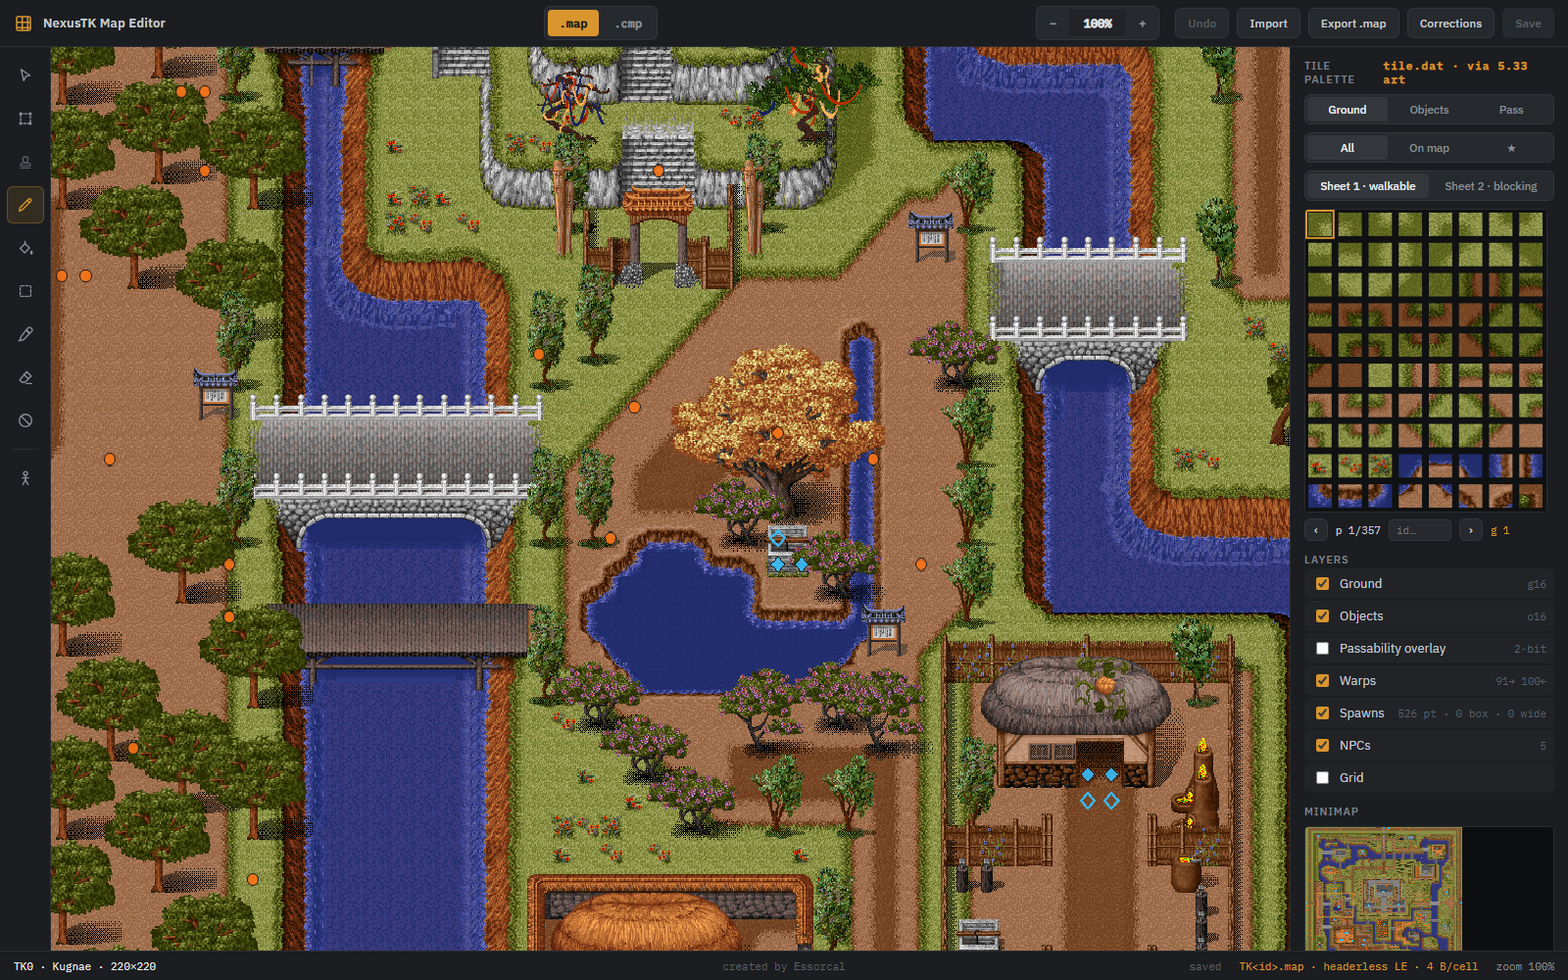
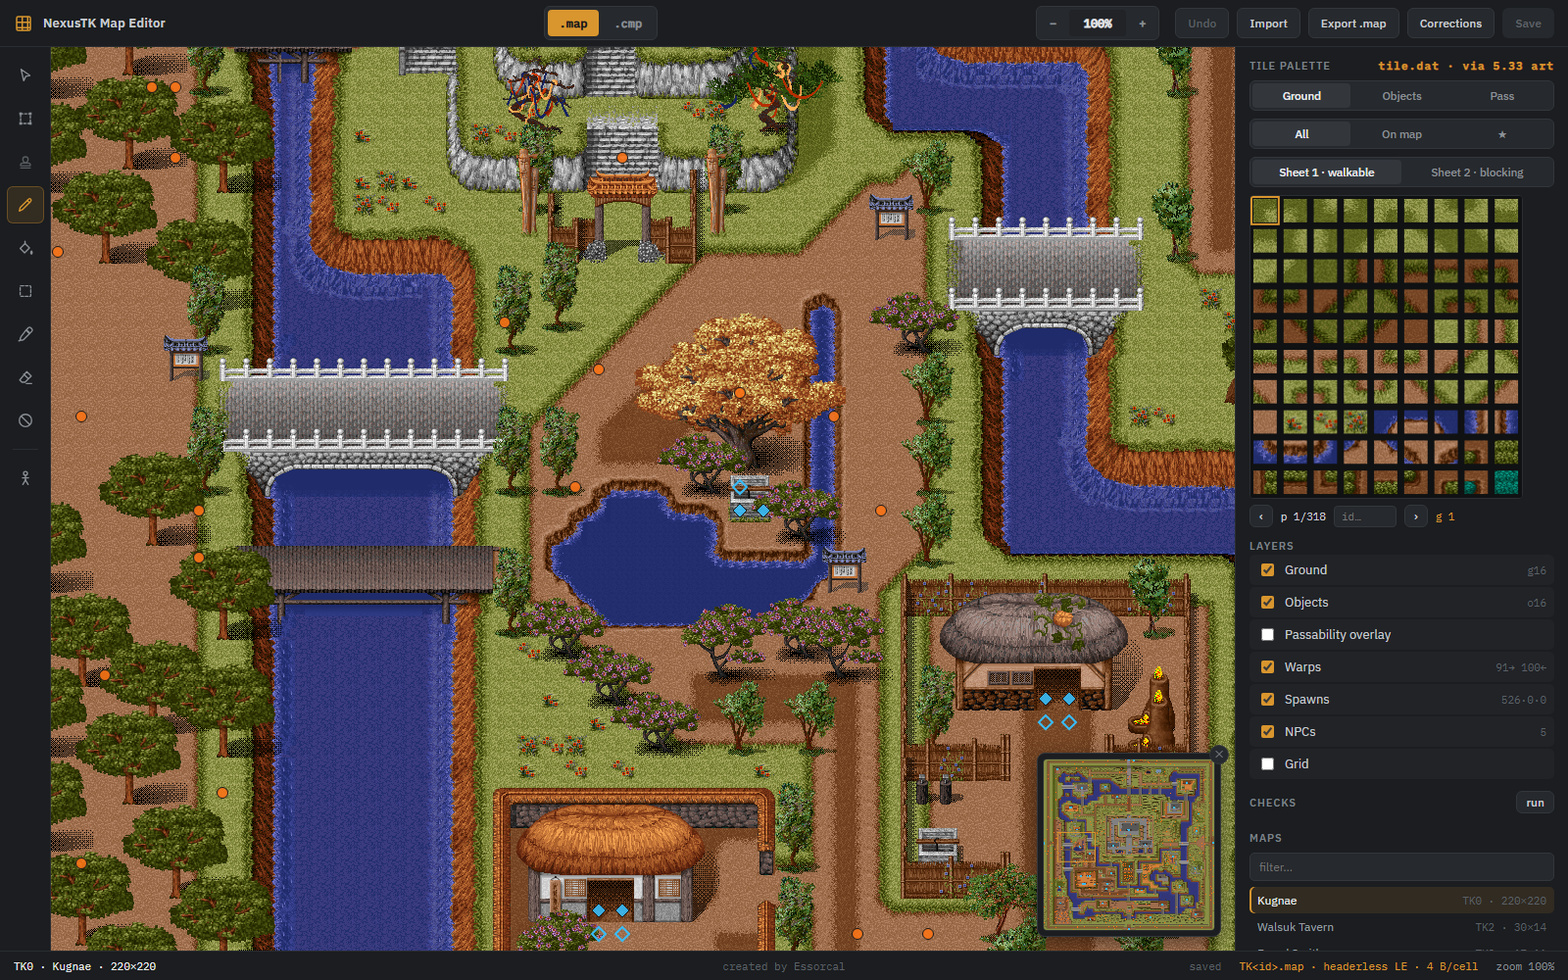
feat(mapeditor): draft saves — never touch the shipped maps; floating minimap
Save now writes game-data/maps-edited/TK<id>.map (gitignored) and the shipped
game-data/maps stays pristine — this is a development tool, so publishing a map
is a deliberate manual copy (or MapCells.csv corrections rows). Loading prefers
the draft, the status bar and map list mark drafted maps, and a Discard-draft
button reloads the shipped file. The .orig backup mechanism is gone; corrections
always diff against the shipped map.

The minimap moves out of the panel to a floating bottom-right overlay with a
persistent hide toggle, and the panel's minimum width rises to 340px so the
layer notes and checks stay readable.

diff --git a/MapEditor/wwwroot/app.js b/MapEditor/wwwroot/app.js
@@ -10,7 +10,7 @@
 const CELL = 24, S2BASE = 0xC000, PAL_ROWS = 10;
 let PAL_COLS = 8, PAL_PAGE = PAL_COLS * PAL_ROWS;
 function setPanelWidth(w) {
-  w = Math.max(240, Math.min(620, w));
+  w = Math.max(340, Math.min(620, w));
   document.documentElement.style.setProperty('--panelw', w + 'px');
   try { localStorage.setItem('mapeditor.panelw', String(w)); } catch {}
   const cols = Math.max(6, Math.min(18, Math.floor((w - 36) / 31)));
@@ -24,7 +24,8 @@ const S = {
   groundImg: new Image(), tilecImg: new Image(),
   mode: '4x',
   mapId: null, mapName: '', xs: 0, ys: 0, cells: null, // Uint16Array, interleaved [g,o] (x64 = LE)
-  modified: false, savedMark: 0,
+  modified: false, savedMark: 0, isDraft: false,       // isDraft: cells came from game-data/maps-edited
+
   tool: 'brush', tab: 'ground', sheet: 1,
   selWord: 1, selObj: 1, selPass: 3,
   palPage: 0, palMode: 'all', palBlock: null, palAnchorIdx: null,
@@ -103,8 +104,10 @@ async function loadMap(id) {
   if (S.modified && !confirm('Discard unsaved changes?')) return;
   const m = S.meta.maps.find(x => x.id === id);
   if (!m) return;
-  const buf = await (await fetch(`/api/map/${id}`, { cache: 'no-store' })).arrayBuffer();
+  const resp = await fetch(`/api/map/${id}`, { cache: 'no-store' });
+  const buf = await resp.arrayBuffer();
   S.mapId = id; S.mapName = m.name; S.xs = m.xs; S.ys = m.ys;
+  S.isDraft = resp.headers.get('X-Draft') === '1';
   S.cells = new Uint16Array(buf);
   S.cam = { x: 0, y: 0 };
   clampCam();                    // centers maps smaller than the viewport
@@ -119,12 +122,31 @@ async function loadMap(id) {
   invalidate(); updateStatus(); updateButtons();
 }
 
+// Save writes a DRAFT (game-data/maps-edited/) — the shipped map is never touched.
+// Publishing a map into game-data/maps is a deliberate manual copy outside the editor.
 async function saveMap() {
   if (S.mapId === null || !S.modified) return;
   const r = await fetch(`/api/map/${S.mapId}`, { method: 'PUT', body: S.cells.buffer });
-  if (r.ok) { S.modified = false; S.savedMark = S.undoStack.length; flashHint('saved'); }
+  if (r.ok) {
+    S.modified = false; S.savedMark = S.undoStack.length; S.isDraft = true;
+    const m = S.meta.maps.find(x => x.id === S.mapId);
+    if (m && !m.draft) { m.draft = true; buildMapList(); }
+    flashHint('draft saved — the shipped map is untouched');
+  }
   else flashHint('save failed: ' + await r.text());
   updateStatus(); updateButtons();
+}
+
+async function discardDraft() {
+  if (S.mapId === null || !S.isDraft) return;
+  if (!confirm(`Delete the draft of TK${S.mapId} and reload the shipped map?`)) return;
+  const r = await fetch(`/api/map/${S.mapId}/draft`, { method: 'DELETE' });
+  if (!r.ok && r.status !== 404) { flashHint('discard failed: ' + await r.text()); return; }
+  const m = S.meta.maps.find(x => x.id === S.mapId);
+  if (m) m.draft = false;
+  S.modified = false;                 // skip the unsaved-changes prompt — discarding is the point
+  await loadMap(S.mapId);
+  flashHint('draft discarded — shipped map loaded');
 }
 
 async function importFile(file) {
@@ -517,12 +539,11 @@ function rebuildMini() {
 }
 function drawMini() {
   const cvs = $('miniCanvas');
-  if (!cvs || !mini.world || !S.cells) return;
+  if (!cvs || !mini.world || !S.cells || $('miniWrap').hidden) return;
   const dpr = devicePixelRatio || 1;
   // Size the canvas ELEMENT to exactly the drawn map — no letterbox, so a click maps to
   // a cell by plain proportion of the element's rect.
-  const availW = (cvs.parentElement && cvs.parentElement.clientWidth) || 96;
-  const k = Math.min(availW / S.xs, 160 / S.ys);             // css px per cell, height-capped
+  const k = Math.min(208 / S.xs, 176 / S.ys);                // css px per cell, corner-box cap
   const cw = Math.max(24, Math.round(S.xs * k)), ch = Math.max(24, Math.round(S.ys * k));
   if (cvs.style.width !== cw + 'px') cvs.style.width = cw + 'px';
   if (cvs.style.height !== ch + 'px') cvs.style.height = ch + 'px';
@@ -564,6 +585,17 @@ function bindMini() {
   cvs.addEventListener('pointerdown', e => { down = true; jump(e); try { cvs.setPointerCapture(e.pointerId); } catch {} });
   cvs.addEventListener('pointermove', e => { if (down) jump(e); });
   cvs.addEventListener('pointerup', () => { down = false; });
+  const setMiniVisible = v => {
+    $('miniWrap').hidden = !v;
+    $('miniShow').hidden = v;
+    try { localStorage.setItem('mapeditor.mini', v ? '1' : '0'); } catch {}
+    if (v) invalidate();
+  };
+  $('miniHide').onclick = () => setMiniVisible(false);
+  $('miniShow').onclick = () => setMiniVisible(true);
+  let vis = true;
+  try { vis = localStorage.getItem('mapeditor.mini') !== '0'; } catch {}
+  setMiniVisible(vis);
 }
 
 // --------------------------------------------------------------------------- checks
@@ -1145,7 +1177,7 @@ function buildMapList() {
     if (filter && !(`${m.id} ${m.name}`.toLowerCase().includes(filter))) continue;
     const row = document.createElement('div');
     row.className = 'mrow' + (m.id === S.mapId ? ' on' : '');
-    row.innerHTML = `<span class="name">${m.name || '(unnamed)'}</span><span class="mono dim">TK${m.id} · ${m.xs}×${m.ys}</span>`;
+    row.innerHTML = `<span class="name">${m.name || '(unnamed)'}</span>${m.draft ? '<span class="draftdot" title="has a draft save in game-data/maps-edited">●</span>' : ''}<span class="mono dim">TK${m.id} · ${m.xs}×${m.ys}</span>`;
     row.onclick = () => loadMap(m.id);
     list.appendChild(row);
   }
@@ -1153,6 +1185,7 @@ function buildMapList() {
 
 function updateButtons() {
   $('btnSave').disabled = !S.modified;
+  $('btnDraft').hidden = !S.isDraft;
   $('btnUndo').disabled = S.undoStack.length === 0;
   $('btnUndo').textContent = S.undoStack.length ? `Undo · ${S.undoStack.length}` : 'Undo';
   $('tool-stamp')?.classList.toggle('dimmed', !S.clipboard);
@@ -1167,7 +1200,8 @@ function flashHint(msg) {
 }
 
 function updateStatus(pin) {
-  $('stMap').textContent = S.mapId !== null ? `TK${S.mapId} · ${S.mapName} · ${S.xs}×${S.ys}` : 'no map';
+  $('stMap').textContent = S.mapId !== null
+    ? `TK${S.mapId} · ${S.mapName} · ${S.xs}×${S.ys}${S.isDraft ? ' · draft' : ''}` : 'no map';
   const c = pin || S.hover;
   if (S.cells && c.x >= 0 && c.x < S.xs && c.y >= 0 && c.y < S.ys) {
     const i = idx(c.x, c.y), g = gAt(i), o = oAt(i);
@@ -1230,6 +1264,7 @@ function bindUI() {
   $('tabPass').onclick = () => setTab('pass');
   $('btnUndo').onclick = undo;
   $('btnSave').onclick = saveMap;
+  $('btnDraft').onclick = discardDraft;
   $('btnExport').onclick = () => {
     if (S.mapId === null) return;
     if (S.modified) { flashHint('save first — export reads the file on disk'); return; }

diff --git a/MapEditor/wwwroot/index.html b/MapEditor/wwwroot/index.html
@@ -29,8 +29,9 @@
       <button id="btnUndo" class="btn" title="Ctrl+Z">Undo</button>
       <button id="btnImport" class="btn">Import</button>
       <button id="btnExport" class="btn">Export .cmp</button>
-      <button id="btnCsv" class="btn" title="Download MapCells.csv override rows for every cell that differs from the shipped map (the .orig backup if a save made one, else the file on disk)">Corrections</button>
-      <button id="btnSave" class="btn primary" disabled>Save</button>
+      <button id="btnCsv" class="btn" title="Download MapCells.csv override rows for every cell that differs from the shipped map in game-data/maps">Corrections</button>
+      <button id="btnDraft" class="btn" hidden title="Delete this map's draft save (game-data/maps-edited) and reload the shipped map">Discard draft</button>
+      <button id="btnSave" class="btn primary" disabled title="Save a draft to game-data/maps-edited — never overwrites the shipped map">Save</button>
       <input type="file" id="fileImport" accept=".map,.cmp" hidden>
     </div>
   </header>
@@ -46,6 +47,13 @@
         </div>
         <div class="dhint">arrow keys work too</div>
       </div>
+      <div id="miniWrap" title="minimap — click or drag to move the view">
+        <button id="miniHide" title="hide the minimap">✕</button>
+        <canvas id="miniCanvas"></canvas>
+      </div>
+      <button id="miniShow" title="show the minimap" hidden>
+        <svg width="16" height="16" viewBox="0 0 20 20" fill="none" stroke="currentColor" stroke-width="1.5" stroke-linejoin="round"><path d="M3 5l4.5-2 5 2L17 3v12l-4.5 2-5-2L3 17z"/><path d="M7.5 3v12M12.5 5v12"/></svg>
+      </button>
       <div id="loading">decoding tileset…</div>
     </main>
     <aside id="panel">
@@ -77,22 +85,14 @@
         </div>
       </section>
       <section>
-        <div class="cols">
-          <div class="colmain">
-            <div class="ptitle">LAYERS</div>
-            <label class="lrow"><input type="checkbox" id="lyGround" checked> Ground <span class="mono dim">g16</span></label>
-            <label class="lrow"><input type="checkbox" id="lyObj" checked> Objects <span class="mono dim">o16</span></label>
-            <label class="lrow" title="tint every blocking cell red"><input type="checkbox" id="lyPass"> Passability</label>
-            <label class="lrow" title="Warps.csv + world-map trigger/arrival cells — filled diamond warps out, hollow diamond is a landing tile, violet opens the world map"><input type="checkbox" id="lyWarp" checked> Warps <span id="warpNote" class="mono dim"></span></label>
-            <label class="lrow" title="Spawns.csv points (dots) and AreaSpawns.csv boxes (dashed) — map-wide rows are listed in this row's tooltip after a map loads"><input type="checkbox" id="lySpawn" checked> Spawns <span id="spawnNote" class="mono dim"></span></label>
-            <label class="lrow" title="NPCs.csv placements"><input type="checkbox" id="lyNpc" checked> NPCs <span id="npcNote" class="mono dim"></span></label>
-            <label class="lrow"><input type="checkbox" id="lyGrid"> Grid</label>
-          </div>
-          <div class="colside">
-            <div class="ptitle">MINIMAP</div>
-            <canvas id="miniCanvas" title="click or drag to move the view"></canvas>
-          </div>
-        </div>
+        <div class="ptitle">LAYERS</div>
+        <label class="lrow"><input type="checkbox" id="lyGround" checked> Ground <span class="mono dim">g16</span></label>
+        <label class="lrow"><input type="checkbox" id="lyObj" checked> Objects <span class="mono dim">o16</span></label>
+        <label class="lrow" title="tint every blocking cell red"><input type="checkbox" id="lyPass"> Passability overlay</label>
+        <label class="lrow" title="Warps.csv + world-map trigger/arrival cells — filled diamond warps out, hollow diamond is a landing tile, violet opens the world map"><input type="checkbox" id="lyWarp" checked> Warps <span id="warpNote" class="mono dim"></span></label>
+        <label class="lrow" title="Spawns.csv points (dots) and AreaSpawns.csv boxes (dashed) — map-wide rows are listed in this row's tooltip after a map loads"><input type="checkbox" id="lySpawn" checked> Spawns <span id="spawnNote" class="mono dim"></span></label>
+        <label class="lrow" title="NPCs.csv placements"><input type="checkbox" id="lyNpc" checked> NPCs <span id="npcNote" class="mono dim"></span></label>
+        <label class="lrow"><input type="checkbox" id="lyGrid"> Grid</label>
       </section>
       <section>
         <div class="ptitle">CHECKS <span id="lintNote" class="mono dim"></span><button id="btnLint" class="btn tiny" title="scan for suspicious cells: warp arrivals and spawn points on blocked ground, walkable edges into void (blocked warp SOURCES are the normal doorway idiom and aren't flagged)">run</button></div>

diff --git a/MapEditor/wwwroot/app.css b/MapEditor/wwwroot/app.css
@@ -22,6 +22,7 @@ button { font: inherit; color: inherit; background: none; border: none; cursor: 
 .actions { display: flex; gap: 8px; }
 
 .btn { display: flex; align-items: center; gap: 6px; padding: 7px 12px; border-radius: 6px; background: var(--panel3); border: 1px solid var(--border2); color: var(--text); font-size: 12px; font-weight: 500; }
+.btn[hidden] { display: none; }   /* the display:flex above would otherwise defeat the hidden attribute */
 .btn:hover { background: var(--border2); }
 .btn:disabled { color: var(--dim); cursor: default; }
 .btn.primary { background: var(--accent); border-color: transparent; color: #17181a; font-weight: 600; }
@@ -72,10 +73,15 @@ button { font: inherit; color: inherit; background: none; border: none; cursor: 
 .lrow .mono { margin-left: auto; flex: 0 1 auto; overflow: hidden; text-overflow: ellipsis; white-space: nowrap; }
 .lrow input { accent-color: var(--accent); }
 
-.cols { display: flex; gap: 10px; align-items: flex-start; }
-.colmain { flex: 1; min-width: 0; }
-.colside { flex: 0 0 96px; min-width: 0; }
-#miniCanvas { display: block; margin-top: 8px; border: 1px solid var(--border); border-radius: 4px; background: #0e0f10; cursor: crosshair; image-rendering: pixelated; }
+#miniWrap { position: absolute; right: 14px; bottom: 14px; padding: 5px; background: var(--panel); border: 1px solid var(--border2); border-radius: 8px; box-shadow: 0 6px 20px rgba(0,0,0,.45); }
+#miniWrap[hidden] { display: none; }
+#miniHide { position: absolute; top: -9px; right: -9px; width: 20px; height: 20px; border-radius: 50%; background: var(--panel3); border: 1px solid var(--border2); color: var(--muted); font-size: 10px; line-height: 1; display: flex; align-items: center; justify-content: center; }
+#miniHide:hover { color: var(--bright); background: var(--border2); }
+#miniShow { position: absolute; right: 14px; bottom: 14px; padding: 8px 10px; border-radius: 6px; background: var(--panel3); border: 1px solid var(--border2); color: var(--muted); box-shadow: 0 4px 12px rgba(0,0,0,.4); display: flex; align-items: center; }
+#miniShow:hover { color: var(--text); }
+#miniShow[hidden] { display: none; }
+#miniCanvas { display: block; border: 1px solid var(--border); border-radius: 4px; background: #0e0f10; cursor: crosshair; image-rendering: pixelated; }
+.draftdot { color: var(--accent); font-size: 9px; flex: 0 0 auto; }
 #lintList { margin-top: 6px; max-height: 140px; overflow-y: auto; }
 .lintrow { display: flex; gap: 8px; padding: 4px 8px; border-radius: 4px; font-family: "IBM Plex Mono", monospace; font-size: 11px; color: #9ba0a6; cursor: pointer; }
 .lintrow:hover { background: var(--panel2); }

diff --git a/MapEditor/Program.cs b/MapEditor/Program.cs
@@ -1,5 +1,6 @@
 // Map editor for the Project1998 world data: a local web tool that renders game-data/maps/
-// with the real 5.33 tile art and edits the 4.x .map files the server actually serves.
+// with the real 5.33 tile art. Edits are saved as DRAFTS (game-data/maps-edited/) — the
+// shipped maps the server serves are only ever changed by a deliberate manual copy.
 //
 // One deliberate asymmetry, straight from re/render_maps.py: BOTH "modes" draw with the 5.33
 // tileset. The 4.x/5.33 mode in the UI selects the FILE FORMAT in and out (.map vs .cmp), not
@@ -36,6 +37,15 @@ Console.WriteLine($"  {assets.GroundCount} ground frames, {assets.TilecCount} ob
 string mapsDir = Path.Combine(repo, "game-data", "maps");
 var index = LoadIndex(Path.Combine(repo, "game-data", "map_index.csv"));
 
+// This is a development tool: Save NEVER touches the shipped maps the server/client read.
+// Drafts live in game-data/maps-edited/ (gitignored); loading prefers the draft so work
+// continues across sessions, and publishing a map into game-data/maps is a deliberate
+// manual copy outside the editor.
+string draftsDir = Path.Combine(repo, "game-data", "maps-edited");
+string ShippedPath(int id) => Path.Combine(mapsDir, $"TK{id}.map");
+string DraftPath(int id) => Path.Combine(draftsDir, $"TK{id}.map");
+string LivePath(int id) => File.Exists(DraftPath(id)) ? DraftPath(id) : ShippedPath(id);
+
 // --port <n> picks the preferred port (a second copy — e.g. one per checkout — stays
 // addressable instead of silently sliding to the next free port).
 int preferred = 5959;
@@ -65,22 +75,25 @@ app.MapGet("/api/meta", () => Results.Json(new
         name = kv.Value.Name,
         xs = kv.Value.Xs,
         ys = kv.Value.Ys,
-        file = File.Exists(Path.Combine(mapsDir, $"TK{kv.Key}.map"))
+        file = File.Exists(ShippedPath(kv.Key)),
+        draft = File.Exists(DraftPath(kv.Key))
     }).OrderBy(m => m.id)
 }));
 
 app.MapGet("/api/tiles/ground.png", () => Results.Bytes(assets.GroundPng, "image/png"));
 app.MapGet("/api/tiles/tilec.png", () => Results.Bytes(assets.TilecPng, "image/png"));
 
-app.MapGet("/api/map/{id:int}", (int id) =>
+// Load prefers the draft so a mapping session survives a restart; X-Draft says which
+// file the bytes came from.
+app.MapGet("/api/map/{id:int}", (int id, HttpResponse resp) =>
 {
-    string path = Path.Combine(mapsDir, $"TK{id}.map");
-    return File.Exists(path) ? Results.Bytes(File.ReadAllBytes(path), "application/octet-stream")
-                             : Results.NotFound();
+    string path = LivePath(id);
+    if (!File.Exists(path)) return Results.NotFound();
+    resp.Headers["X-Draft"] = path == DraftPath(id) ? "1" : "0";
+    return Results.Bytes(File.ReadAllBytes(path), "application/octet-stream");
 });
 
-// Save: overwrite TK<id>.map, keeping a one-time .orig of the shipped file. The server never
-// writes these files (its edits are overlays), so the editor is the only writer here.
+// Save writes the DRAFT only — game-data/maps/ stays exactly as shipped.
 app.MapPut("/api/map/{id:int}", async (int id, HttpRequest req) =>
 {
     if (!index.TryGetValue(id, out var dims)) return Results.BadRequest("unknown map id");
@@ -90,11 +103,16 @@ app.MapPut("/api/map/{id:int}", async (int id, HttpRequest req) =>
     int expect = dims.Xs * dims.Ys * 4;
     if (data.Length != expect)
         return Results.BadRequest($"size {data.Length} != {dims.Xs}x{dims.Ys}x4 = {expect}");
-    string path = Path.Combine(mapsDir, $"TK{id}.map");
-    string orig = path + ".orig";
-    if (File.Exists(path) && !File.Exists(orig)) File.Copy(path, orig);
-    File.WriteAllBytes(path, data);
-    return Results.Ok(new { saved = data.Length, backup = File.Exists(orig) });
+    Directory.CreateDirectory(draftsDir);
+    File.WriteAllBytes(DraftPath(id), data);
+    return Results.Ok(new { saved = data.Length, draft = $"game-data/maps-edited/TK{id}.map" });
+});
+
+app.MapDelete("/api/map/{id:int}/draft", (int id) =>
+{
+    if (!File.Exists(DraftPath(id))) return Results.NotFound();
+    File.Delete(DraftPath(id));
+    return Results.Ok();
 });
 
 // Read-only overlay data: warps / world-map cells / spawns / NPCs pointing at this map,
@@ -105,15 +123,14 @@ app.MapGet("/api/map/{id:int}/markers", (int id) =>
 
 // Sparse-patch export: POST the editor's live cell buffer, get back MapCells.csv rows
 // (Server/Content.cs LoadMapCells: blank column = inherit from the .map) for exactly the
-// cells that differ from the SHIPPED baseline — the .orig backup once a save has created
-// one, else the file on disk. Small fixes become reviewable CSV rows in git instead of a
-// rewritten binary map.
+// cells that differ from the SHIPPED map — saves are drafts that never touch it, so
+// game-data/maps IS the baseline. Small fixes become reviewable CSV rows in git instead
+// of a rewritten binary map.
 app.MapPost("/api/map/{id:int}/mapcells.csv", async (int id, HttpRequest req, HttpResponse resp) =>
 {
     if (!index.TryGetValue(id, out var dims)) return Results.BadRequest("unknown map id");
-    string path = Path.Combine(mapsDir, $"TK{id}.map");
-    string baseline = File.Exists(path + ".orig") ? path + ".orig" : path;
-    if (!File.Exists(baseline)) return Results.BadRequest("no baseline file on disk");
+    string baseline = ShippedPath(id);
+    if (!File.Exists(baseline)) return Results.BadRequest("no shipped map on disk");
     var old = File.ReadAllBytes(baseline);
     using var ms = new MemoryStream();
     await req.Body.CopyToAsync(ms);
@@ -137,14 +154,14 @@ app.MapPost("/api/map/{id:int}/mapcells.csv", async (int id, HttpRequest req, Ht
         n++;
     }
     resp.Headers["X-Cell-Count"] = n.ToString();
-    resp.Headers["X-Baseline"] = baseline.EndsWith(".orig") ? "orig" : "disk";
     return Results.Text(sb.ToString(), "text/csv");
 });
 
+// Exports read what the editor shows: the draft when one exists, else the shipped map.
 app.MapGet("/api/map/{id:int}/export.cmp", (int id) =>
 {
     if (!index.TryGetValue(id, out var dims)) return Results.NotFound();
-    string path = Path.Combine(mapsDir, $"TK{id}.map");
+    string path = LivePath(id);
     if (!File.Exists(path)) return Results.NotFound();
     var cmp = MapToCmp(File.ReadAllBytes(path), dims.Xs, dims.Ys);
     return Results.File(cmp, "application/octet-stream", $"TK{id:D6}.cmp");
@@ -152,7 +169,7 @@ app.MapGet("/api/map/{id:int}/export.cmp", (int id) =>
 
 app.MapGet("/api/map/{id:int}/export.map", (int id) =>
 {
-    string path = Path.Combine(mapsDir, $"TK{id}.map");
+    string path = LivePath(id);
     return File.Exists(path)
         ? Results.File(File.ReadAllBytes(path), "application/octet-stream", $"TK{id}.map")
         : Results.NotFound();

diff --git a/MapEditor/README.md b/MapEditor/README.md
@@ -88,9 +88,10 @@ at 100% and above every step is pixel-crisp.
 Pan with **space + drag**, middle-mouse drag, the mouse wheel (`Shift` for horizontal),
 or the arrow keys.
 
-The **minimap** (right panel) shows the whole map with the current view marked — click
-or drag on it to jump. It also carries the marker layers' dots, so a city's warps and
-spawns are visible at a glance.
+The **minimap** floats in the bottom-right corner of the canvas: the whole map with the
+current view marked — click or drag on it to jump. It carries the marker layers' dots,
+so a city's warps and spawns are visible at a glance. The ✕ on its corner hides it (a
+small map button in the same spot brings it back), and the choice persists.
 
 ## Editing
 
@@ -107,8 +108,23 @@ spawns are visible at a glance.
 | No-entry | toggle a cell's passability (this flips its ground sheet — see above) |
 
 **Ctrl+Z** undoes stroke by stroke. The **Passability overlay** (Layers panel) tints
-every blocking cell red. **Save** (or Ctrl+S) writes the `.map` file — the first save of
-each map keeps a one-time `.orig` backup beside it.
+every blocking cell red.
+
+## Saving — drafts, never the live maps
+
+This is a development tool, so **Save (Ctrl+S) writes a draft** to
+`game-data\maps-edited\TK<id>.map` and **never overwrites the shipped map** in
+`game-data\maps`. Loading a map prefers its draft, so your work is there next session;
+the status bar shows `· draft`, and the map list marks drafted maps with a dot. The
+**Discard draft** button deletes the draft and reloads the shipped map.
+
+Getting an edit into the actual game is deliberate and manual — either:
+
+- copy `game-data\maps-edited\TK<id>.map` over `game-data\maps\TK<id>.map` yourself
+  (then `@reload` on the server), or
+- for small fixes, use **Corrections** (below) and append the rows to
+  `game-data\MapCells.csv` — the server applies those as overrides and streams them to
+  clients, no map file replacement needed.
 
 ## The test character
 
@@ -152,9 +168,9 @@ fires before collision is checked).
 
 The server applies `game-data/MapCells.csv` rows as authored overrides on top of the
 shipped `.map` files — "the shipped map is wrong here". The **Corrections** button turns
-your edits into exactly those rows: it diffs the editor's buffer against the shipped
-baseline (the `.orig` backup once a save has created one, otherwise the file on disk)
-and downloads one CSV row per changed cell, with unchanged columns left blank so they
+your edits into exactly those rows: it diffs the editor's buffer against the shipped map
+in `game-data\maps` (saves are drafts, so the shipped file is always the baseline) and
+downloads one CSV row per changed cell, with unchanged columns left blank so they
 inherit from the `.map`. A three-cell fix becomes three reviewable lines in git instead
 of a rewritten binary map. Works with unsaved changes too.
 
